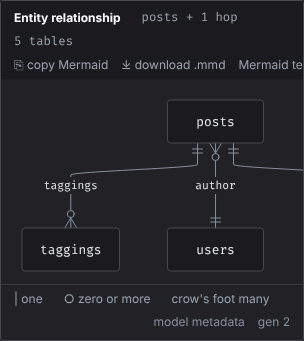
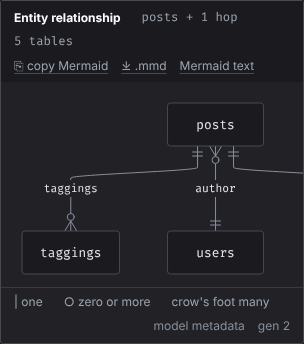
Retake the export tool screenshots with the .mmd link

diff --git a/docs/design/screenshots/README.md b/docs/design/screenshots/README.md
@@ -20,7 +20,7 @@ widths are the tiers of D-19.
 | Guidelines, C5 chrome | [C5-Chrome](../boards/C5-Chrome.html) | [1440](guidelines-c5-chrome-1440.png), [the tooltip open](guidelines-tooltip-1440.png) |
 | Unit page, Code tab (`/woods/units/model/User`) | [B8-Code](../boards/B8-Code.html) | [1440](unit-code-1440.png), [effective lens](unit-code-effective-1440.png), [960](unit-code-960.png), [390](unit-code-390.png), [peek open](unit-code-peek-1440.png), [☰ sheet at 390](unit-code-sheet-390.png) |
 | Schema tab (`Post`, the ER drawn by Pele) | [B6-Schema](../boards/B6-Schema.html) | [1440](unit-schema-1440.png) |
-| Mermaid export tools: ⎘ copy and ⤓ `.mmd` download in a diagram panel's band, and beside the passage heading | [C4-Diagrams](../boards/C4-Diagrams.html) (*copy Mermaid*), [B6-Lifecycle](../boards/B6-Lifecycle.html) | [panel 1440](diagram-export-tools-1440.png), [panel 390](diagram-export-tools-390.png), [passage](passage-export-tools-1440.png) |
+| Mermaid export tools: ⎘ copy and the ⤓ `.mmd` link (D-25) in a diagram panel's band, and beside the passage heading | [C4-Diagrams](../boards/C4-Diagrams.html) (*copy Mermaid*), [B6-Lifecycle](../boards/B6-Lifecycle.html) | [panel 1440](diagram-export-tools-1440.png), [panel 390](diagram-export-tools-390.png), [passage](passage-export-tools-1440.png) |
 | Lifecycle tab (`Post` create, the sequence drawn by Pele) | [B6-Lifecycle](../boards/B6-Lifecycle.html) | [1440](unit-lifecycle-1440.png), [the panel at 390](unit-lifecycle-390.png), [light](unit-lifecycle-light-1440.png) |
 | Lifecycle tab, flowchart and lanes views with the state machine section (`Post` create; the testbed copy gave `Post` a `state_machine` declaration) | [B6-Lifecycle](../boards/B6-Lifecycle.html), [lifecycle views note](../notes/lifecycle-views.md) | [flowchart 1440](unit-lifecycle-flowchart-1440.png), [flowchart light](unit-lifecycle-flowchart-light-1440.png), [lanes 1440](unit-lifecycle-lanes-1440.png), [lanes colour-vision](unit-lifecycle-lanes-cvd-1440.png), [lanes 390](unit-lifecycle-lanes-390.png) |
 | Graph tab (`Post`, the neighbourhood flowchart drawn by Pele above the list equivalent; the interactive canvas is M5) | [B6-Graph](../boards/B6-Graph.html), [B9-Pele](../boards/B9-Pele.html) | [1440](unit-graph-1440.png), [light](unit-graph-light-1440.png), [colour-vision](unit-graph-cvd-1440.png), [*Mermaid text* pressed](unit-graph-text-1440.png) |
